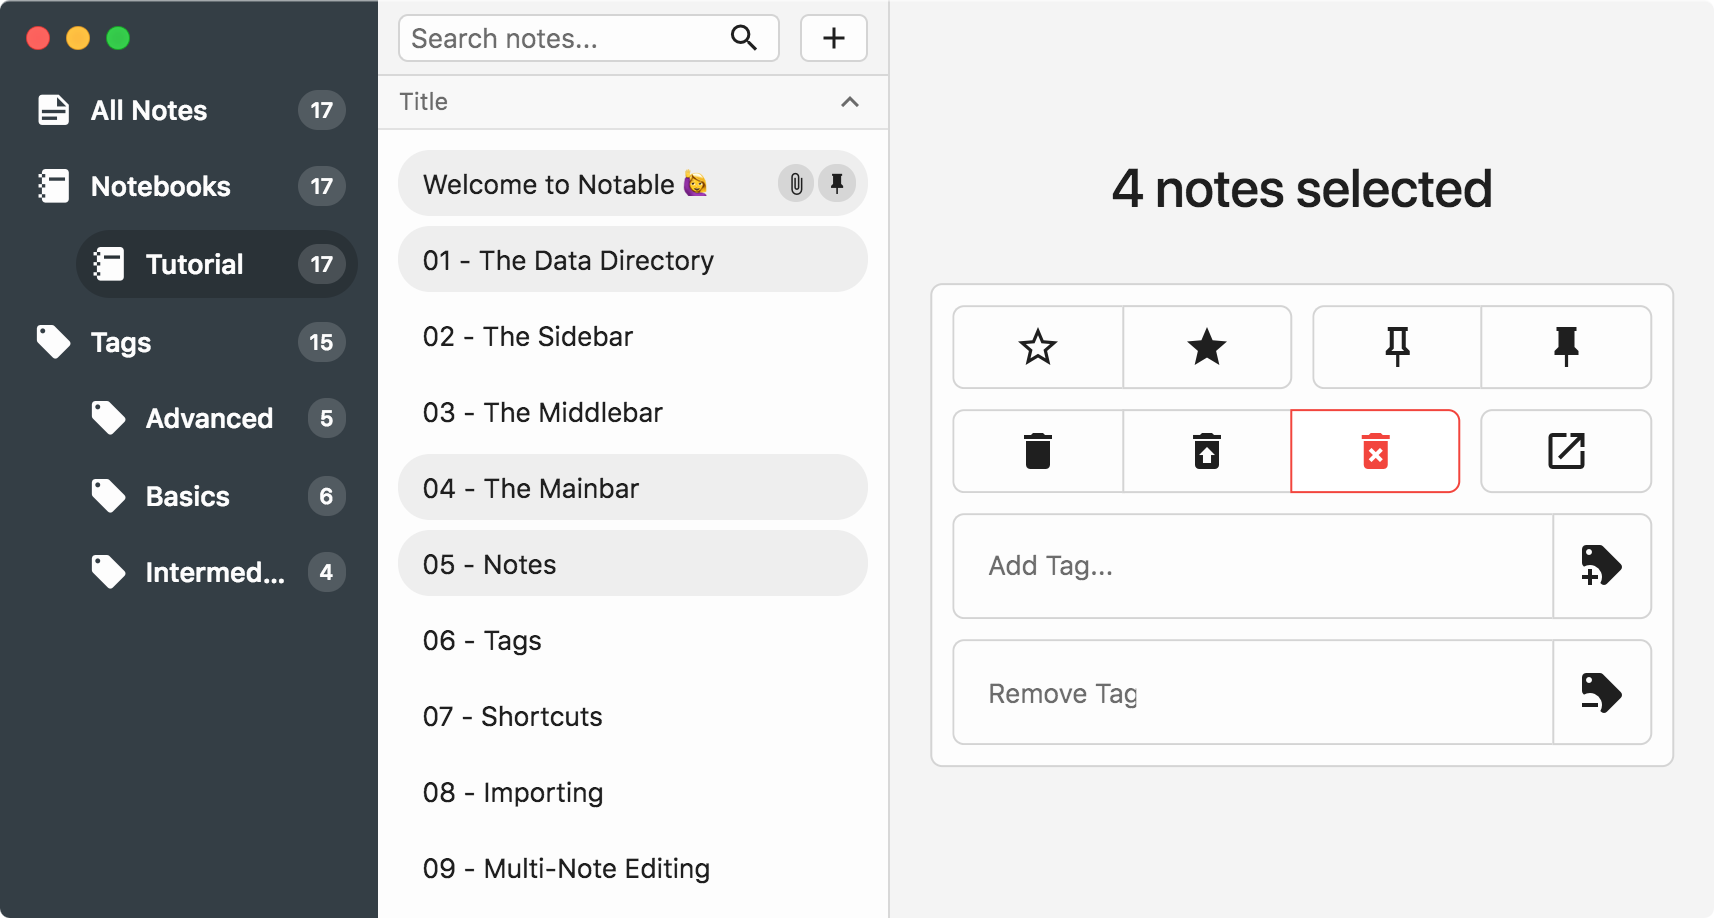
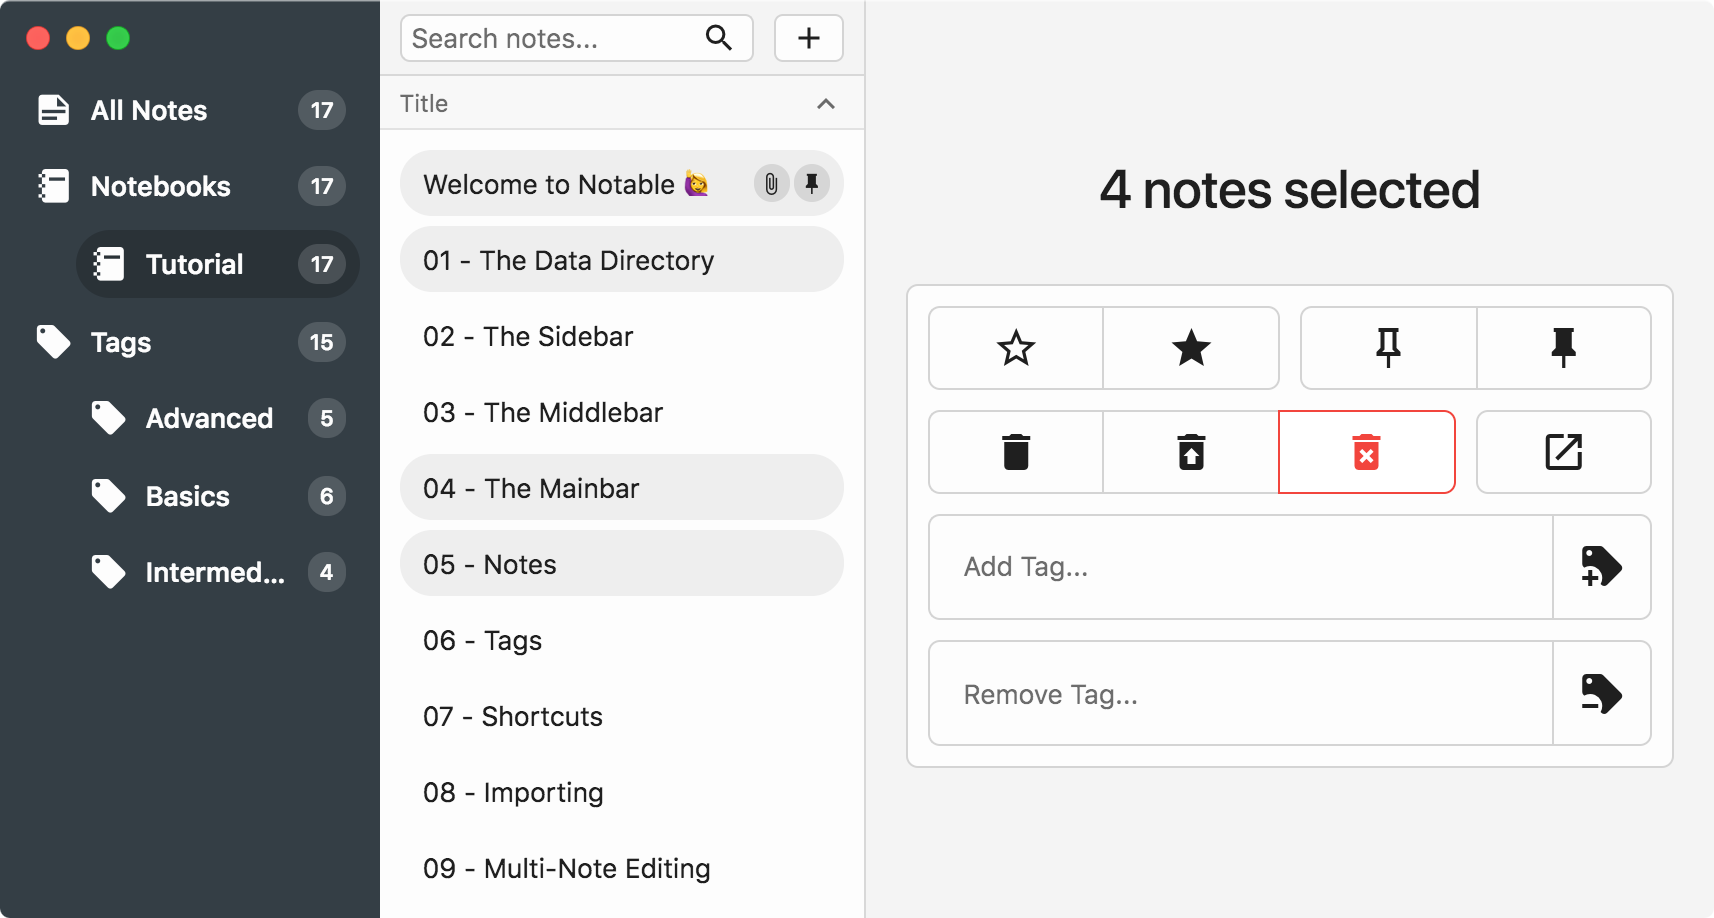
Readme: updated screenshots
Closes #271

diff --git a/README.md b/README.md
@@ -1,7 +1,7 @@
 # Notable ([DOWNLOAD](https://github.com/fabiospampinato/notable/releases))
 
 <p align="center">
-  <img src="resources/demo/main.png" alt="Notable" width="500">
+  <img src="resources/demo/main.png" alt="Notable" width="750">
 </p>
 
 The markdown-based note-taking app that doesn't suck.
@@ -39,6 +39,10 @@ Upon first instantiation, some tutorial notes will be added to the app, check th
 Part of this comparison is personal opinion: you may disagree on the UI front, things I consider bloat may be considered features by somebody else etc. but hopefully this comparison did a good job at illustrating the main differences.
 
 ## Demo
+
+### Indefinitely Nestable Tags
+
+<img src="resources/demo/tags.png" alt="Indefinitely Nestable Tags" width="750">
 
 ### Editor
 
